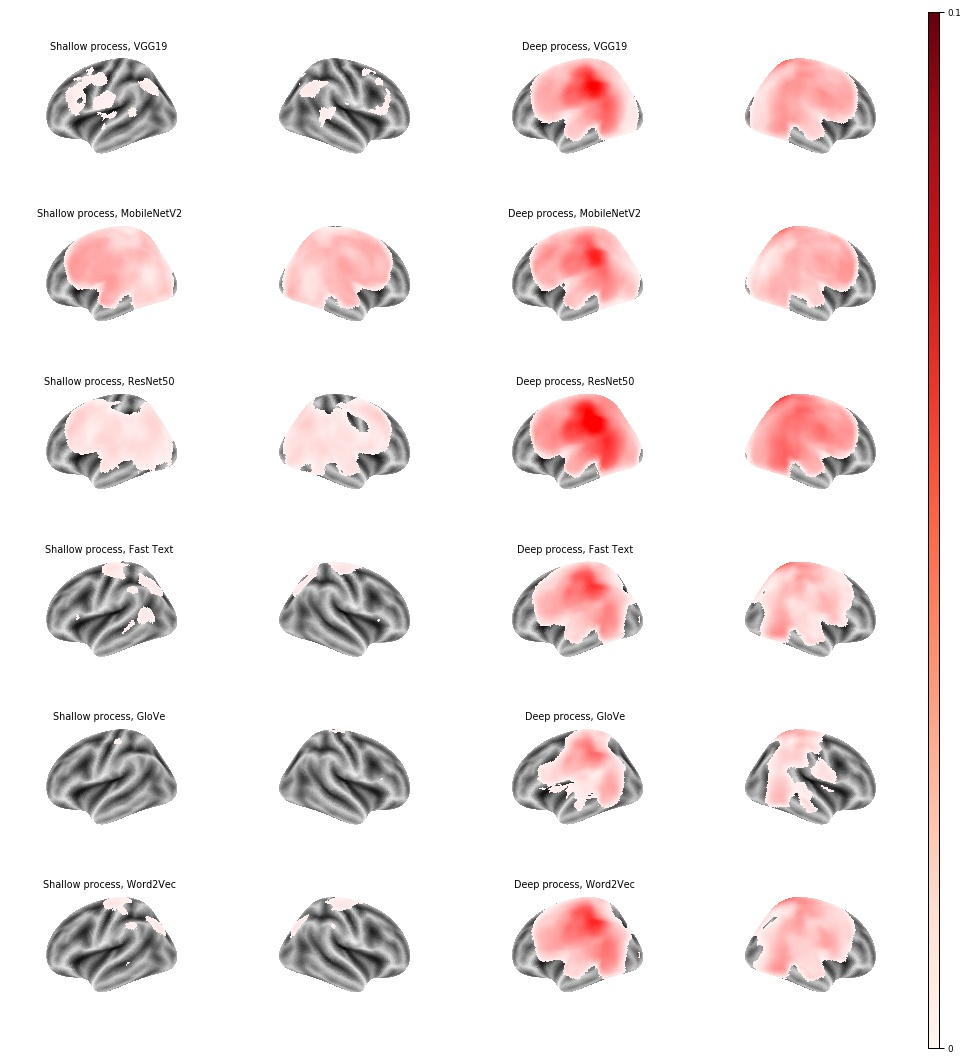
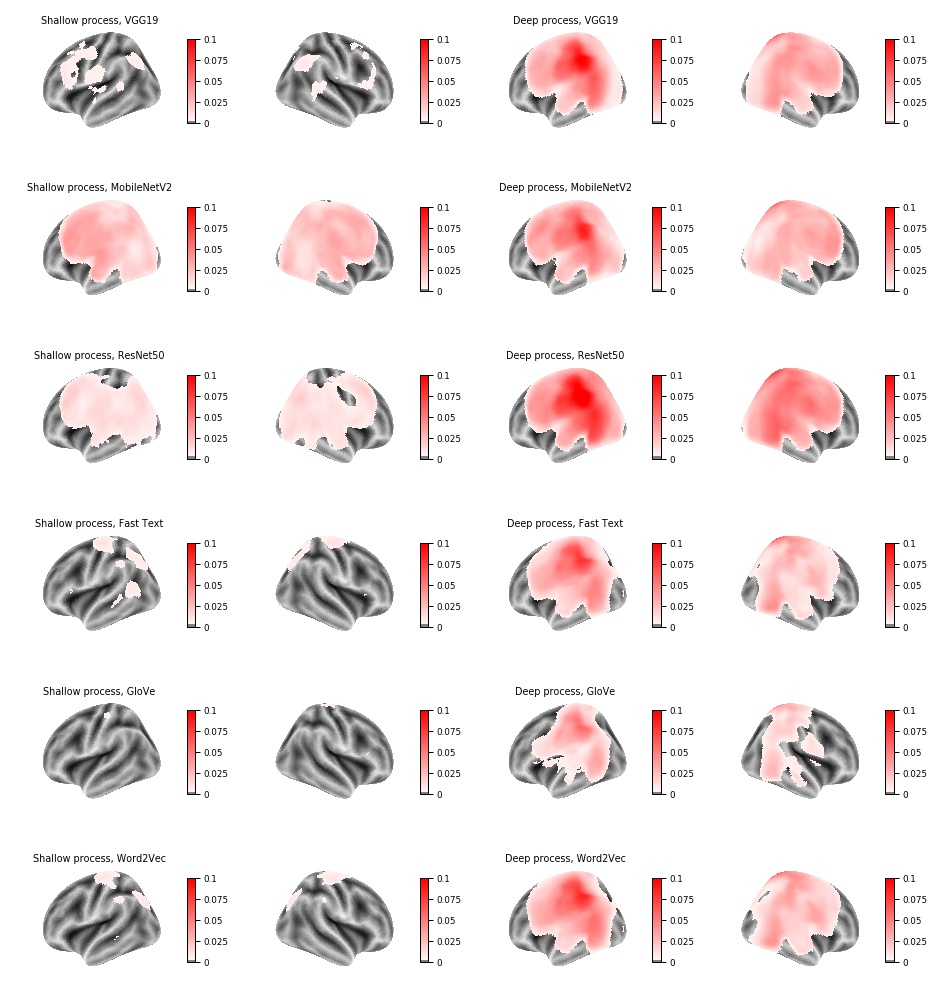
run 6mm RSA

diff --git a/scripts/plot_group_average_in_standard_space.py b/scripts/plot_group_average_in_standard_space.py
@@ -26,14 +26,11 @@ from nilearn.datasets import fetch_surf_fsaverage
 from nilearn.plotting import plot_surf_stat_map
 from nilearn.input_data import NiftiMasker
 
-from utils import nipype_fsl_randomise
-
 from matplotlib import pyplot as plt
 
 sns.set_context('paper')
 
 radius              = 10
-rerun_randomise     = False
 folder_name         = f'RSA_basedline_average_{radius}mm_standard'
 working_dir         = f'../results/{folder_name}'
 standard_brain_mask = '../data/standard_brain/MNI152_T1_2mm_brain_mask_dil.nii.gz'
@@ -100,31 +97,20 @@ for (model_name,condition) in iterator:
 df = pd.DataFrame(df)
 
 # randomise
-if rerun_randomise:
-    temp_dir = 'temp'
-    if not os.path.exists(temp_dir):
-        os.mkdir(temp_dir) 
-    for ii,row in list(df.iterrows())[::2]:
-        row
-        maps_for_randomise = row['randomise_brain_map']
-        condition,model_name = row['title'].split(', ')
-        maps_for_randomise.to_filename(os.path.join(temp_dir,
-                  f'{condition.replace(" ","_")}_{model_name.replace(" ","_")}.nii.gz'))
-        input_file = os.path.join(temp_dir,
-                  f'{condition.replace(" ","_")}_{model_name.replace(" ","_")}.nii.gz')
-        mask_file = standard_brain_mask
-        base_name = os.path.join(randomise_dir,
-                  f'{condition.replace(" ","_")}_{model_name.replace(" ","_")}')
-        nipype_fsl_randomise(input_file,
-                             mask_file,
-                             base_name,
-                             tfce                   = True,
-                             var_smooth             = 6,
-                             demean                 = False,
-                             one_sample_group_mean  = True,
-                             n_permutation          = int(1e4),
-                             quiet                  = True,
-                             run_algorithm          = True,)
+maps_randomise = glob(os.path.join(randomise_dir,f'*tfce_corrp_tstat1.nii.gz'))
+temp = []
+for ii,row in list(df.iterrows())[::2]:
+    condition,model_name = row['title'].split(', ')
+    map_randomise = [item for item in maps_randomise if\
+                     (condition.replace(" ","_") in item)\
+                     and (model_name.replace(" ","_") in item)][0]
+    pvalue      = masker.fit_transform(map_randomise)[0]
+    # in randomise, p values are saved as 1 - P
+#    pvalue_     = -np.log(pvalue)
+#    pvalue_[pvalue_ == np.inf] = 0
+    p_to_plot   = masker.inverse_transform(pvalue)
+    temp.append(p_to_plot)
+df['randomise_maps'] = np.repeat(temp,2)
 
 vmax        = .1
 bottom,top  = 0.1,0.9
@@ -157,18 +143,52 @@ for ax,(ii_row,row) in zip(axes.flatten(),df.iterrows()):
                        figure           = fig,
                        title            = title,
                        cmap             = plt.cm.bwr,
-                       colorbar         = False,
+                       colorbar         = True,
                        vmax             = vmax,
                        symmetric_cbar   = 'auto',)
-cbar_ax = fig.add_axes([0.92,bottom,0.01,top - bottom])
-cbar    = fig.colorbar(im,cax = cbar_ax)
-cbar.set_ticks(np.array([0,vmax]))
-cbar.set_ticklabels(np.array([0,vmax],dtype = str))
+#cbar_ax = fig.add_axes([0.92,bottom,0.01,top - bottom])
+#cbar    = fig.colorbar(im,cax = cbar_ax)
+#cbar.set_ticks(np.array([0,vmax]))
+#cbar.set_ticklabels(np.array([0,vmax],dtype = str))
 fig.savefig(os.path.join(figure_group_average_dir,'group average.jpg'),
             bbox_inches = 'tight')
 plt.close('all')
 
-
+vmax = 1
+plt.close('all')
+print('plotting in standard space')
+fig,axes = plt.subplots(figsize     = (4 * 4,6 * 3),
+                        nrows       = 6, # determined by models tested
+                        ncols       = 4, # because I want to plot both left and right brain
+                        subplot_kw  = {'projection':'3d'},
+                        )
+for ax,(ii_row,row) in zip(axes.flatten(),df.iterrows()):
+    image_for_plot  = row['randomise_maps']
+    surf_mesh       = row['surf_mesh']
+    bg_map          = row['bg_map']
+    hemi            = row['hemisphere']
+    title           = row['title']
+    
+    brain_map_in_surf = vol_to_surf(image_for_plot,surf_mesh,radius = radius,)
+    plot_surf_stat_map(surf_mesh,
+                       brain_map_in_surf,
+                       bg_map           = bg_map,
+                       threshold        = 1 - 0.05,
+                       hemi             = hemi,
+                       axes             = ax,
+                       figure           = fig,
+                       title            = title,
+                       cmap             = plt.cm.bwr,
+                       colorbar         = True,
+                       vmax             = vmax,
+                       symmetric_cbar   = 'auto',)
+#cbar_ax = fig.add_axes([0.92,bottom,0.01,top - bottom])
+#cbar    = fig.colorbar(im,cax = cbar_ax)
+#cbar.set_ticks(np.array([0,vmax]))
+#cbar.set_ticklabels(np.array([0,vmax],dtype = str))
+fig.savefig(os.path.join(figure_stat_dir,'group average p values.jpg'),
+            bbox_inches = 'tight')
+plt.close('all')
 
 
 

diff --git a/scripts/randomise on the RSA maps.py b/scripts/randomise on the RSA maps.py
@@ -1,0 +1,107 @@
+#!/usr/bin/env python3
+# -*- coding: utf-8 -*-
+"""
+Created on Wed Sep  1 02:50:18 2021
+
+@author: nmei
+"""
+
+import os
+
+import numpy as np
+import pandas as pd
+
+from glob import glob
+from tqdm import tqdm
+from itertools import product
+from nilearn.image import concat_imgs,mean_img
+from nilearn.datasets import fetch_surf_fsaverage
+from nilearn.input_data import NiftiMasker
+
+from utils import nipype_fsl_randomise
+
+
+radius              = 6
+rerun_randomise     = False
+folder_name         = f'RSA_basedline_average_{radius}mm_standard'
+working_dir         = f'../results/{folder_name}'
+standard_brain_mask = '../data/standard_brain/MNI152_T1_2mm_brain_mask_dil.nii.gz'
+conditions          = ['read','reenact']
+model_names         = ['vgg19','mobilenet','resnet50','fasttext','glove','word2vec']
+condition_map       = {'read':      'Shallow process',
+                       'reenact':   'Deep process'}
+model_name_map      = {'vgg19':     'VGG19',
+                       'mobilenet': 'MobileNetV2',
+                       'resnet50':  'ResNet50',
+                       'fasttext':  'Fast Text',
+                       'glove':     'GloVe',
+                       'word2vec':  'Word2Vec',}
+
+iterator    = tqdm(np.array(list(product(*[model_names,conditions]))))
+masker      = NiftiMasker(standard_brain_mask,).fit()
+fsaverage   = fetch_surf_fsaverage()
+
+randomise_dir               = f'../results/{folder_name}_randomise'
+for f in [randomise_dir,]:
+    if not os.path.exists(f):
+        os.mkdir(f)
+
+df = dict(surf_mesh                 = [],
+          bg_map                    = [],
+          hemisphere                = [],
+          title                     = [],
+          stat_brain_map_standard   = [],
+          randomise_brain_map       = [],
+          )
+for (model_name,condition) in iterator:
+    working_data    = np.sort(glob(os.path.join(working_dir,
+                                                f'*{condition}*{model_name}*nii.gz')
+                                    )
+                                )
+    concat_images   = concat_imgs(working_data)
+    # mask the output before we conduct statistical inference
+    data                = masker.transform(concat_images)
+    image_for_randomise = masker.inverse_transform(data)
+    image_for_plot      = mean_img(image_for_randomise)
+    data                = masker.transform(image_for_plot)
+    # exclude negative correlation coefficients
+    data[0 > data]      = 0
+    image_for_plot      = masker.inverse_transform(data)
+    
+    # left
+    df['surf_mesh'              ].append(fsaverage.infl_left)
+    df['bg_map'                 ].append(fsaverage.sulc_left)
+    df['hemisphere'             ].append('left')
+    df['title'                  ].append(f'{condition_map[condition]}, {model_name_map[model_name]}')
+    df['stat_brain_map_standard'].append(image_for_plot)
+    df['randomise_brain_map'    ].append(image_for_randomise)
+    
+df = pd.DataFrame(df)
+
+# randomise
+
+temp_dir = 'temp'
+if not os.path.exists(temp_dir):
+    os.mkdir(temp_dir)
+
+idx = 0
+row = df.iloc[idx,:]
+maps_for_randomise = row['randomise_brain_map']
+condition,model_name = row['title'].split(', ')
+maps_for_randomise.to_filename(os.path.join(temp_dir,
+          f'{condition.replace(" ","_")}_{model_name.replace(" ","_")}.nii.gz'))
+input_file = os.path.join(temp_dir,
+          f'{condition.replace(" ","_")}_{model_name.replace(" ","_")}.nii.gz')
+mask_file = standard_brain_mask
+base_name = os.path.join(randomise_dir,
+          f'{condition.replace(" ","_")}_{model_name.replace(" ","_")}')
+nipype_fsl_randomise(input_file,
+                     mask_file,
+                     base_name,
+                     tfce                   = True,
+                     var_smooth             = 6,
+                     demean                 = False,
+                     one_sample_group_mean  = True,
+                     n_permutation          = int(1e4),
+                     quiet                  = True,
+                     run_algorithm          = True,)

diff --git a/scripts/randomise on the RSA maps modify and save.py b/scripts/randomise on the RSA maps modify and save.py
@@ -1,0 +1,106 @@
+#!/usr/bin/env python3
+# -*- coding: utf-8 -*-
+"""
+Created on Sun Aug 29 02:44:20 2021
+
+@author: nmei
+"""
+
+import os
+import numpy as np
+import pandas as pd
+from shutil import rmtree
+
+template = 'randomise on the RSA maps.py'
+working_dir = '../data/Searchlight'
+subjects = os.listdir(working_dir)
+cv_model_names = ['vgg19','mobilenet','resnet50']
+w2v_model_names = ['fasttext','glove','word2vec']
+conditions = ['read','reenact']
+
+node = 1
+core = 16
+mem = 4 * node * core
+cput = 24 * node * core
+
+#############
+scripts_folder = 'randomise'
+if not os.path.exists(scripts_folder):
+    os.mkdir(scripts_folder)
+else:
+    rmtree(scripts_folder)
+    os.mkdir(scripts_folder)
+os.mkdir(f'{scripts_folder}/outputs')
+# add to gitignore
+with open ('../.gitignore','r') as f:
+    temp = [f'scripts/{scripts_folder}' in line for line in f]
+    f.close()
+if np.sum(temp) == 0:
+    with open('../.gitignore','a') as f:
+        line = f'#bash folder\nscripts/{scripts_folder}\n'
+        f.write(line)
+        f.close()
+
+add_on = """from shutil import copyfile
+copyfile('../utils.py','utils.py')
+"""
+collections = []
+for ii in range(12):
+    new_scripts_name = os.path.join(scripts_folder,template.replace('.py',f'_{ii}.py'))
+    with open(new_scripts_name,'w') as new_file:
+        with open(template,'r') as old_file:
+            for line in old_file:
+                if "../" in line:
+                    line = line.replace("../","../../")
+                elif 'idx = ' in line:
+                    line = line.replace('0',f'{ii}')
+                new_file.write(line)
+            old_file.close()
+        new_file.close()
+    new_batch_script_name = os.path.join(scripts_folder,f'RSA{ii+1}')
+    content = f"""#!/bin/bash
+#$ -q long.q
+#$ -N Ran{ii}
+#$ -o output/out_{ii}.txt
+#$ -e output/err_{ii}.txt
+#$ -cwd
+#$ -m be
+#$ -M nmei@bcbl.eu
+#$ -S /bin/bash
+
+pwd
+echo "randomise map {ii}"
+module load python/python3.6
+
+python "{new_scripts_name.split('/')[-1]}"
+"""
+#    content = f"""#!/bin/bash
+##PBS -q bcbl
+##PBS -l nodes={node}:ppn={core}
+##PBS -l mem={mem}gb
+##PBS -l cput={cput}:00:00
+##PBS -N RSA{ii+1}
+##PBS -o outputs/out_{ii+1}.txt
+##PBS -e outputs/err_{ii+1}.txt
+#cd $PBS_O_WORKDIR
+#export PATH="/scratch/ningmei/anaconda3/bin:/scratch/ningmei/anaconda3/condabin:$PATH"
+#source activate keras-2.1.6_tensorflow-2.0.0
+#pwd
+#echo {new_scripts_name.split('/')[-1]}
+#python "{new_scripts_name.split('/')[-1]}"
+#    """
+    with open(new_batch_script_name,'w') as f:
+        f.write(content)
+        f.close()
+    collections.append(f"qsub RSA{ii+1}")
+
+with open(f'{scripts_folder}/qsub_jobs.py','w') as f:
+    f.write("""import os\nimport time""")
+
+with open(f'{scripts_folder}/qsub_jobs.py','a') as f:
+    for ii,line in enumerate(collections):
+        if ii == 0:
+            f.write(f'\nos.system("{line}")\n')
+        else:
+            f.write(f'time.sleep(3)\nos.system("{line}")\n')
+    f.close()

diff --git a/scripts/convert_brain_maps_from_individual_to_standard_space.py b/scripts/convert_brain_maps_from_individual_to_standard_space.py
@@ -10,8 +10,9 @@ import os
 
 from glob import glob
 from utils import convert_individual_space_to_standard_space
+from joblib import Parallel,delayed
 
-radius                  = 10
+radius                  = 6
 folder_name             = f'RSA_basedline_average_{radius}mm'
 working_dir             = f'../results/{folder_name}'
 working_data            = glob(os.path.join(working_dir,'*.nii.gz'))
@@ -23,7 +24,7 @@ for f in [out_transformation_dir,output_dir]:
     if not os.path.exists(f):
         os.mkdir(f)
 
-for brain_map_file in working_data:
+def _proc(brain_map_file):
     sub,condition,model_name = brain_map_file.split('/')[-1].split('.')[0].split('_')
     in_transformation_matrix_file = os.path.join(
             transformation_dir,
@@ -44,7 +45,10 @@ for brain_map_file in working_data:
             brain_map_standard_space        = brain_map_standard_space,
             run_algorithm                   = True,
             )
-    
+    return res
+
+res = Parallel(n_jobs = -1,verbose = 1)(delayed(_proc)(**{
+        'brain_map_file':brain_map_file}) for brain_map_file in working_data)
 
 
 

diff --git a/scripts/encoding_based_RSA_pipeline_baseline.py b/scripts/encoding_based_RSA_pipeline_baseline.py
@@ -57,9 +57,9 @@ if __name__ == "__main__":
     # parameters in the header
     for sub                 in os.listdir('../data/Searchlight'):
         for condition           in ['read','reenact']:
-            cv_model_name       = 'resnet50' # change here
-            w2v_model_name      = 'word2vec' # chenge here
-            radius              = 10 # define your RSA radius
+            cv_model_name       = 'mobilenet' # change here
+            w2v_model_name      = 'glove' # chenge here
+            radius              = 6 # define your RSA radius
             working_dir         = f'../data/Searchlight/{sub}'
             mask_dir            = f'../data/masks_and_transformation_matrices/{sub}'
             whole_brain_data    = os.path.join(working_dir,'while_brain_bold_stacked.npy')
